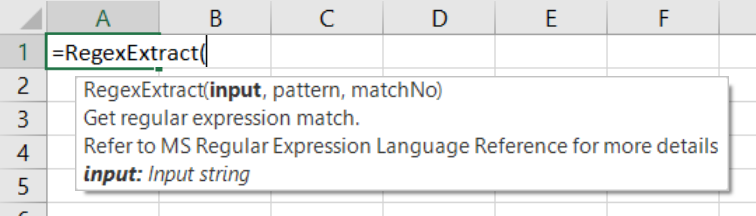
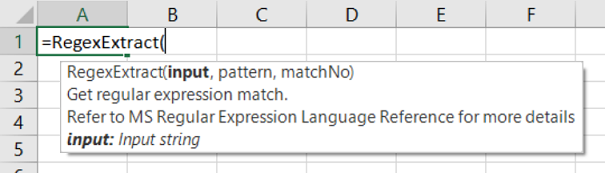
Scale down screenshot

diff --git a/README.md b/README.md
@@ -1,5 +1,5 @@
 # Excel-Regex
-![Alt text](/Excel%20Regex/screenshot.png?raw=true "Optional Title")
+![In-use screenshot](/Excel%20Regex/screenshot.png?raw=true "UDF Screenshot")
 
 This compiled Excel add-in brings regular expressions from C# into any Excel worksheet through two new functions:
 * RegexMatches: boolean check for whether an input string matches the regular expression
